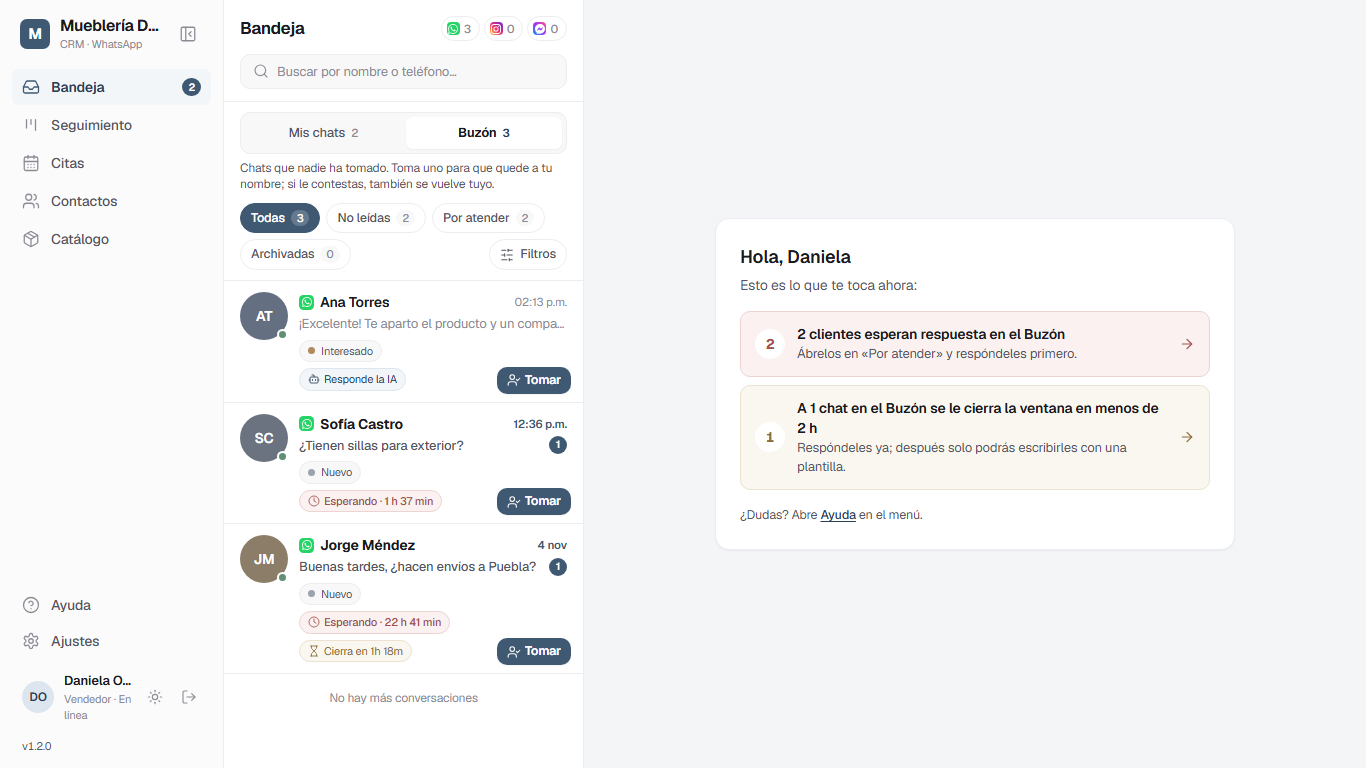
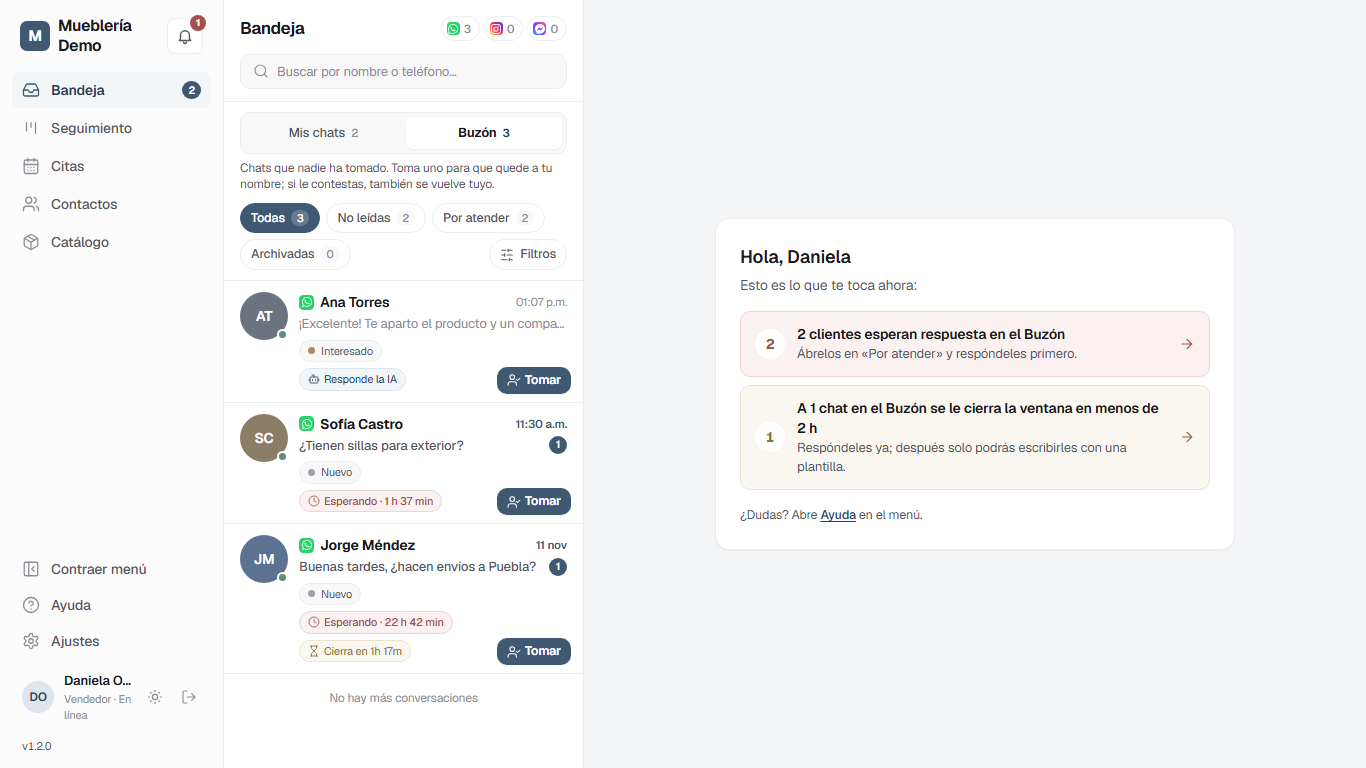
fix(035 B): nombre del negocio completo junto a la campana
«Contraer menú» baja al pie del lateral y el nombre usa hasta dos renglones;
capturas de la Ayuda con el lateral actual.

diff --git a/src/components/app-nav.tsx b/src/components/app-nav.tsx
@@ -162,7 +162,10 @@ export function AppNav({
           {branding.name.charAt(0).toUpperCase()}
         </span>
         <span className={cn("min-w-0 flex-1", collapsed && "lg:hidden")}>
-          <span className="block truncate text-[16px] font-[650] leading-tight tracking-tight">
+          {/* 035 B — En escritorio, hasta dos renglones: junto a la campana
+              «FUTURA City Cars» no cabe en uno, y cortado deja de ser el
+              nombre del negocio. El cajón móvil sigue en uno. */}
+          <span className="block truncate text-[16px] font-[650] leading-tight tracking-tight lg:line-clamp-2 lg:whitespace-normal lg:break-words">
             {branding.name}
           </span>
           {/* 035 B — En escritorio la campana ocupa su lugar (diseño aprobado:
@@ -173,24 +176,6 @@ export function AppNav({
             (siempre a la vista), no dentro del cajón. Contraído: debajo de la
             inicial. */}
         <NotificationBell testId="nav-bell" className="hidden lg:flex" />
-        {/* Contraer/expandir: solo en escritorio, en móvil el cajón ya se
-            cierra entero. */}
-        <button
-          type="button"
-          onClick={toggleCollapsed}
-          aria-label={collapsed ? "Expandir menú" : "Contraer menú"}
-          title={collapsed ? "Expandir menú" : "Contraer menú"}
-          aria-expanded={!collapsed}
-          className={cn(
-            "hidden rounded-md p-1 text-text-3 hover:bg-accent hover:text-foreground lg:inline-flex"
-          )}
-        >
-          {collapsed ? (
-            <PanelLeftOpen className="h-[18px] w-[18px]" strokeWidth={1.7} />
-          ) : (
-            <PanelLeftClose className="h-[18px] w-[18px]" strokeWidth={1.7} />
-          )}
-        </button>
       </div>
 
       <nav className="flex flex-col gap-0.5">
@@ -262,6 +247,27 @@ export function AppNav({
       </nav>
 
       <div className="flex-1" />
+
+      {/* Contraer/expandir: solo en escritorio, en móvil el cajón ya se
+          cierra entero. Va al pie y no junto al nombre: en el encabezado le
+          quitaba el espacio al nombre del negocio (035 B). */}
+      <button
+        type="button"
+        onClick={toggleCollapsed}
+        aria-label={collapsed ? "Expandir menú" : "Contraer menú"}
+        aria-expanded={!collapsed}
+        className={cn(
+          "hidden items-center gap-[11px] rounded-sm px-2.5 py-2 text-sm font-medium text-text-2 transition-colors hover:bg-accent lg:flex",
+          collapsed && "lg:justify-center lg:px-0"
+        )}
+      >
+        {collapsed ? (
+          <PanelLeftOpen className="h-[18px] w-[18px] shrink-0 text-text-3" strokeWidth={1.7} />
+        ) : (
+          <PanelLeftClose className="h-[18px] w-[18px] shrink-0 text-text-3" strokeWidth={1.7} />
+        )}
+        <span className={cn(collapsed && "lg:hidden")}>Contraer menú</span>
+      </button>
 
       {/* 031 — La guía es para todos los roles: va con Ajustes, al pie, y no
           como pestaña de Ajustes (esas dependen del rol). */}
